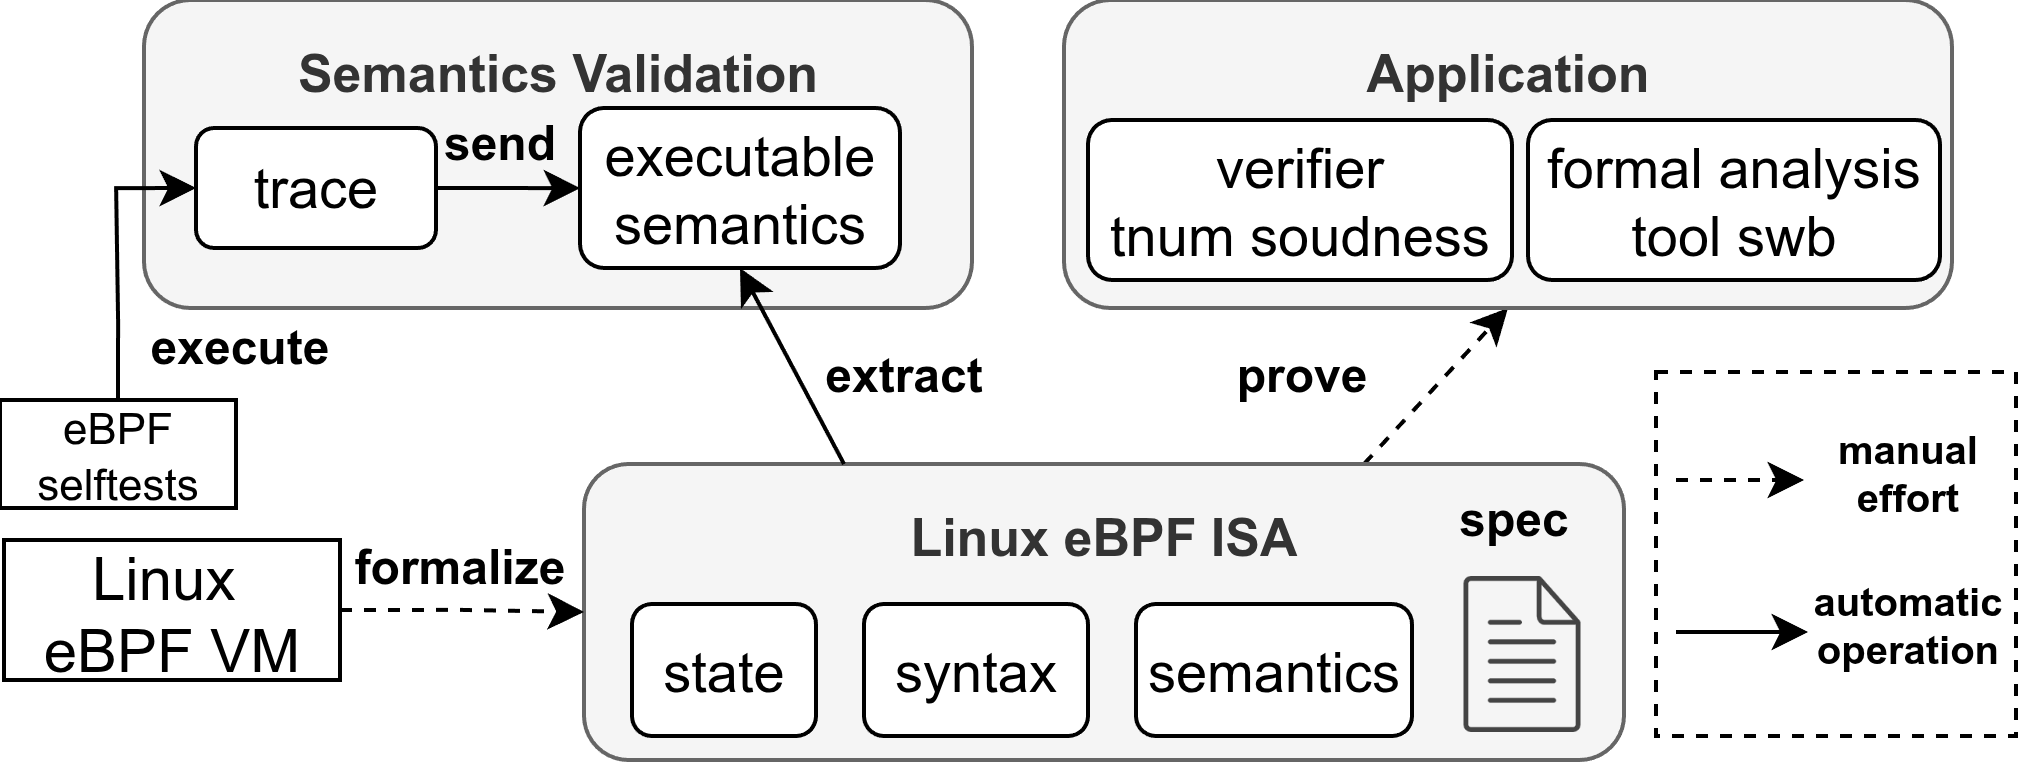
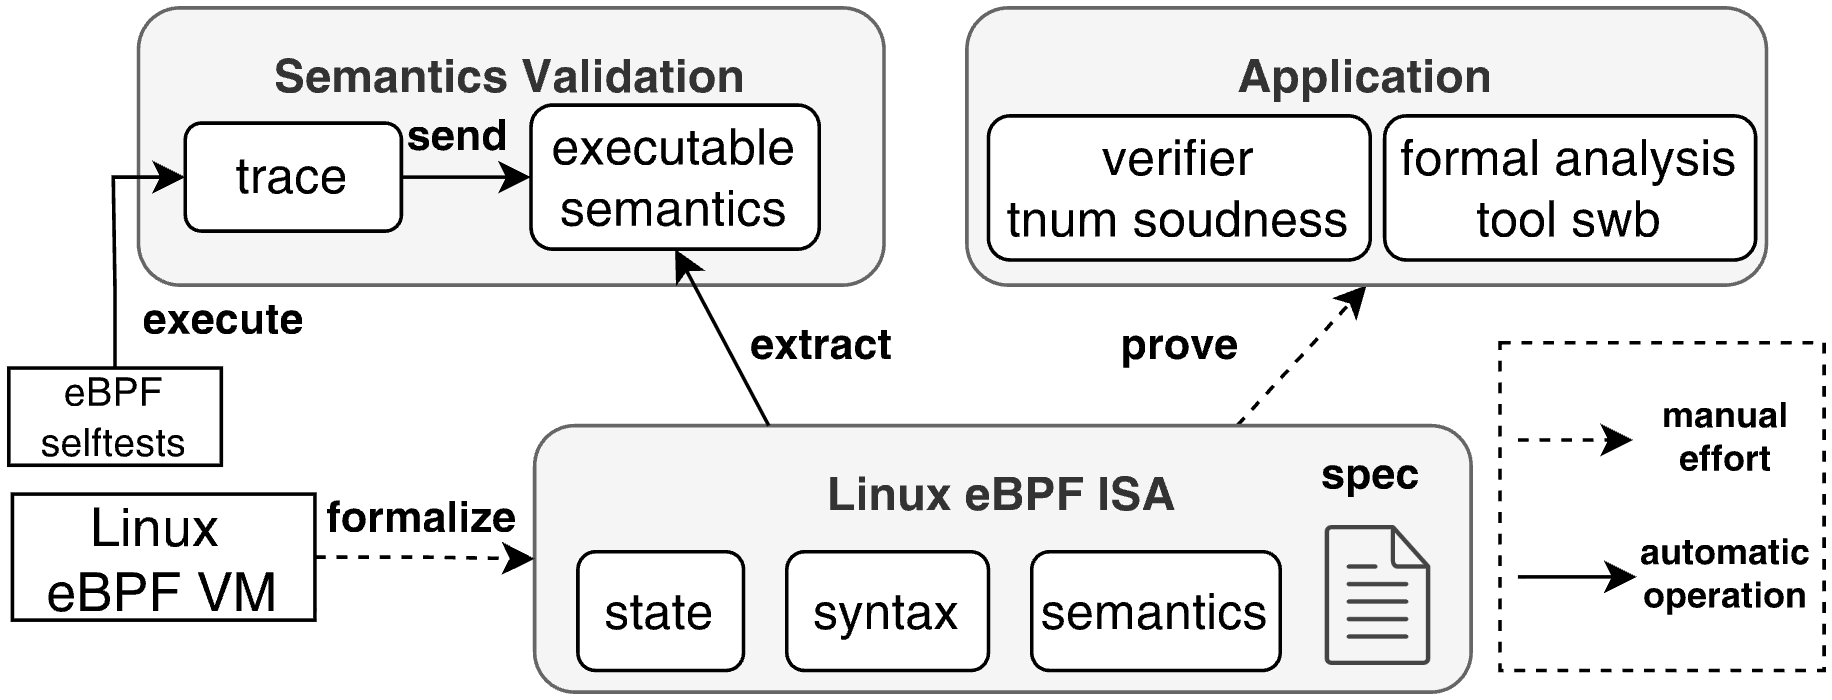
OOPSLA26

diff --git a/content/publication/YUAN-OOPSLA2026/index.md b/content/publication/YUAN-OOPSLA2026/index.md
@@ -9,7 +9,7 @@ authors:
   - Shenghao Yuan
   - Yazhou Tang
   - Tianci Cao
-  - Frederic Besson
+  - Frédéric Besson
   - Jean-Pierre Talpin
   - Mingshuai Chen
 author_notes:
@@ -39,9 +39,11 @@ abstract: 'This paper presents a mechanized formal semantics for the Linux eBPF 
 
 tags:
   - eBPF
+  - OS kernel
   - verification
   - mechanized semantics
   - abstract interpretation
+  - theorem proving
 
 # Summary. An optional shortened abstract.
 summary: ''

diff --git a/content/news/26-06-11-Paper-OOPSLA2026/index.md b/content/news/26-06-11-Paper-OOPSLA2026/index.md
@@ -16,4 +16,4 @@ image:
 
 <!--more-->
 
-Our paper titled "[Formalizing the Linux eBPF Core ISA: A Mechanized Operational Semantics and Its Real-World Applications](/publication/yuan-oopsla2026/)" by Shenghao Yuan, {{% mention "Yazhou Tang" %}}, Tianci Cao, Frederic Besson (INRIA), Jean-Pierre Talpin (INRIA) and {{% mention "Mingshuai Chen" %}} has been accepted for publication at OOPSLA 2026, in Oakland, California, United States, as part of the Proceedings of the ACM on Programming Languages (PACMPL). This paper presents an executable mechanized small-step semantics in Rocq for all 160 sequential in-kernel instructions of the Linux eBPF ISA, validated against the official Linux eBPF test suite and intended to serve as a rigorous complement to existing documentation. Building on this semantics, we verify the soundness of the Linux verifier’s bit-level abstract domain, uncover previously unknown kernel bugs, and develop verifier optimizations, all of which have been upstreamed to the Linux kernel.
+Our paper titled "[Formalizing the Linux eBPF Core ISA: A Mechanized Operational Semantics and Its Real-World Applications](/publication/yuan-oopsla2026/)" by Shenghao Yuan, {{% mention "Yazhou Tang" %}}, Tianci Cao, Frédéric Besson (INRIA), Jean-Pierre Talpin (INRIA) and {{% mention "Mingshuai Chen" %}} has been accepted for publication at OOPSLA 2026, in Oakland, California, United States, as part of the Proceedings of the ACM on Programming Languages (PACMPL). This paper presents a mechanized, fully executable small-step semantics in Rocq for all the 160 sequential in-kernel instructions of the Linux eBPF instruction set architecture. Leveraging this semantics, we verify the soundness of the Linux verifier's bit-level abstract domain, uncover previously unknown kernel bugs, and develop verifier optimizations, all of which have been upstreamed to the Linux kernel.

diff --git a/content/publication/WANG-OOPSLA2026/index.md b/content/publication/WANG-OOPSLA2026/index.md
@@ -37,7 +37,7 @@ publishDate: '2017-01-01T00:00:00Z'
 publication_types: ['2']
 
 # Publication name and optional abbreviated publication name.
-publication: '*Proc. ACM Program. Lang., X(OOPSLA1)*'
+publication: '*Proc. ACM Program. Lang., 10(OOPSLA1)*'
 publication_short: '*Proc. ACM Program. Lang. (OOPSLA)*'
 
 